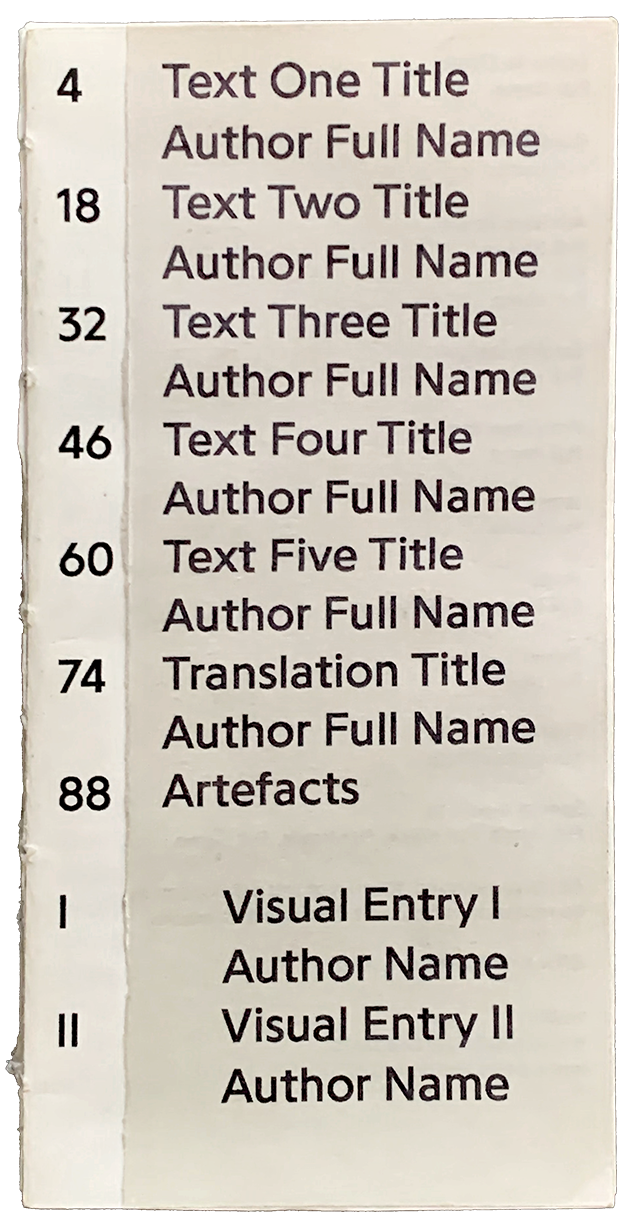
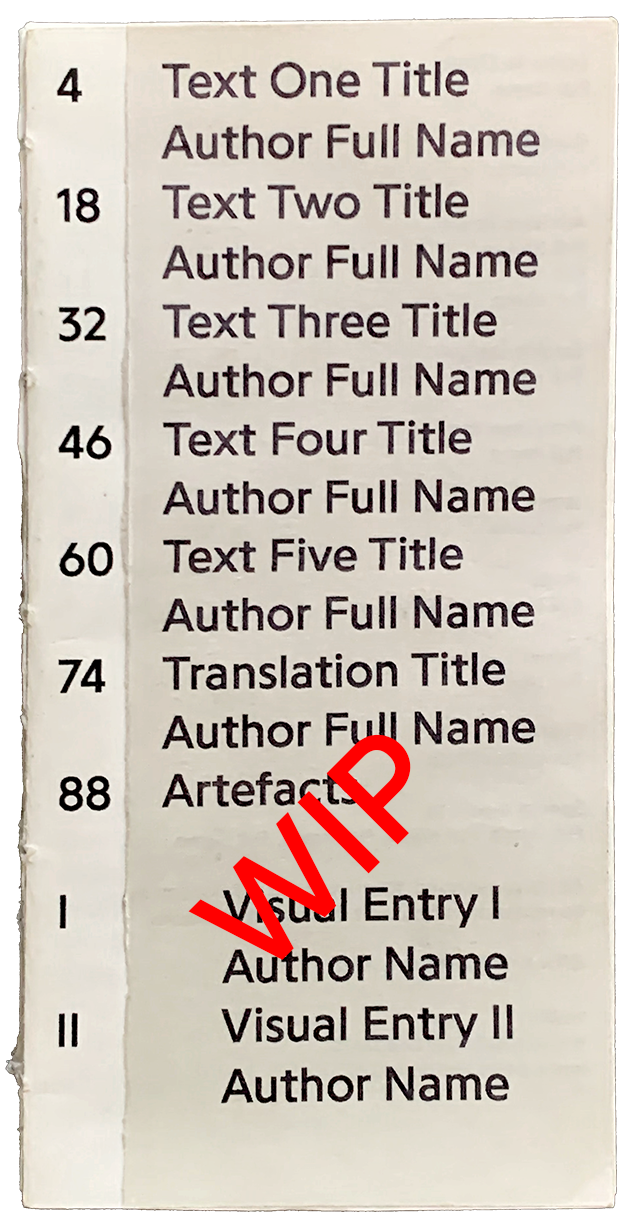
Update 4 files

Changed region(s): [[0.2997, 0.5875, 0.6593, 0.8039]]

diff --git a/src/App.js b/src/App.js
@@ -123,6 +123,36 @@ function App() {
     }
   };
 
+  const scrollToTitle5 = useRef(null);
+
+  const handleImageClick5 = (event) => {
+    const image = event.target;
+    const imageHeight = image.offsetHeight;
+    const clickPosition = event.clientY - image.getBoundingClientRect().top;
+    const topPercentage = (clickPosition / imageHeight) * 100;
+
+    if (topPercentage >= 45 && topPercentage <= 53 && scrollToTitle5.current) {
+      scrollToTitle5.current.scrollIntoView({
+        behavior: "smooth",
+      });
+    }
+  };
+
+  const scrollToTitle6 = useRef(null);
+
+  const handleImageClick6 = (event) => {
+    const image = event.target;
+    const imageHeight = image.offsetHeight;
+    const clickPosition = event.clientY - image.getBoundingClientRect().top;
+    const topPercentage = (clickPosition / imageHeight) * 100;
+
+    if (topPercentage >= 55 && topPercentage <= 63 && scrollToTitle6.current) {
+      scrollToTitle6.current.scrollIntoView({
+        behavior: "smooth",
+      });
+    }
+  };
+
   // SCROLL TO TOP NAVIGATION
 
   const scrollToTop = useRef(null);
@@ -164,7 +194,7 @@ function App() {
           <img
             ref={scrollToTop}
             id="Cover"
-            src={require("./images/TextMagazine_LowRes_Cover.png")}
+            src={require("./images/TextMagazine_LowRes_Cover_WIP.png")}
             alt="Image"
             style={{
               width: "110%",
@@ -176,6 +206,8 @@ function App() {
               handleImageClick2(event);
               handleImageClick3(event);
               handleImageClick4(event);
+              handleImageClick5(event);
+              handleImageClick6(event);
             }}
           />
           <h1 ref={scrollToTitle} id="textOneTitle">
@@ -230,10 +262,11 @@ function App() {
             Text Two Title
           </h1>
           <a className="sound-symbol">⏵</a>
+          <h2>AUTHOR FULL NAME</h2>
+          <br />
           <a className="download-symbol" href={pdfFile} download role="img">
             ⤓
           </a>
-          <h2>AUTHOR FULL NAME</h2>
           <br />
           <br />
           <br />
@@ -246,13 +279,14 @@ function App() {
 
           <h1 ref={scrollToTitle3} id="textTwoTitle">
             <br />
-            Text Three Title
+            Text Thre Title
           </h1>
           <a className="sound-symbol">⏵</a>
+          <h2>AUTHOR FULL NAME</h2>
+          <br />
           <a className="download-symbol" href={pdfFile} download role="img">
             ⤓
           </a>
-          <h2>AUTHOR FULL NAME</h2>
           <br />
           <br />
           <br />
@@ -268,10 +302,51 @@ function App() {
             Text Four Title
           </h1>
           <a className="sound-symbol">⏵</a>
+          <h2>AUTHOR FULL NAME</h2>
+          <br />
           <a className="download-symbol" href={pdfFile} download role="img">
             ⤓
           </a>
+          <br />
+          <br />
+          <br />
+          <br />
+          <br />
+          <br />
+          <p className="indented">{paragraph1}</p>
+          <p className="indented">{paragraph2}</p>
+          <p>...</p>
+
+          <h1 ref={scrollToTitle5} id="textTwoTitle">
+            <br />
+            Text Five Title
+          </h1>
+          <a className="sound-symbol">⏵</a>
           <h2>AUTHOR FULL NAME</h2>
+          <br />
+          <a className="download-symbol" href={pdfFile} download role="img">
+            ⤓
+          </a>
+          <br />
+          <br />
+          <br />
+          <br />
+          <br />
+          <br />
+          <p className="indented">{paragraph1}</p>
+          <p className="indented">{paragraph2}</p>
+          <p>...</p>
+
+          <h1 ref={scrollToTitle6} id="textTwoTitle">
+            <br />
+            Tra. Title
+          </h1>
+          <a className="sound-symbol">⏵</a>
+          <h2>AUTHOR FULL NAME</h2>
+          <br />
+          <a className="download-symbol" href={pdfFile} download role="img">
+            ⤓
+          </a>
           <br />
           <br />
           <br />

diff --git a/src/styles.css b/src/styles.css
@@ -256,17 +256,17 @@ body::before {
   }
 
   .download-symbol {
-    color: rgb(226, 225, 225);
+    color: black;
     font-size: 37px;
     position: absolute;
-    right: 22px;
+    right: 25px;
   }
 
   .sound-symbol {
-    font-size: 37px;
-    color: rgb(226, 225, 225);
+    font-size: 32px;
+    color: black;
     position: absolute;
-    right: 22px;
+    right: 25px;
   }
   html.scroll-transition {
     scroll-behavior: smooth;
